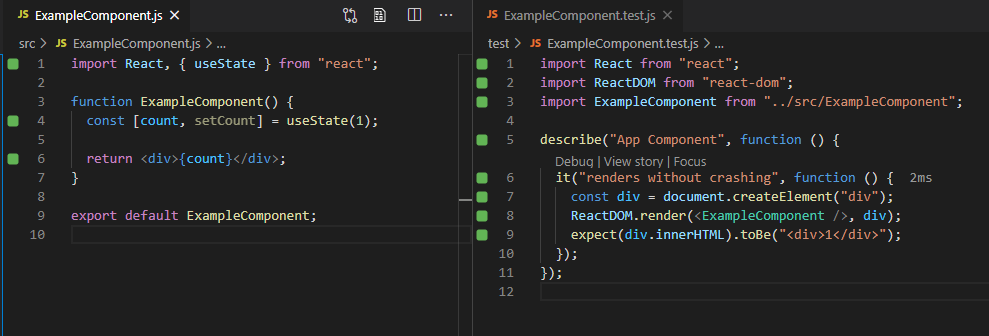
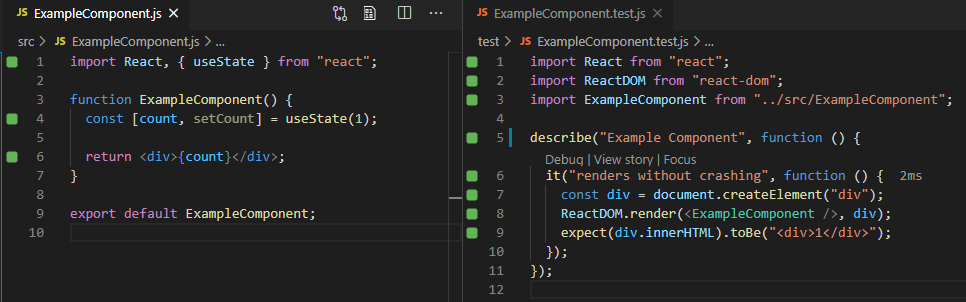
update

diff --git a/test/ExampleComponent.test.js b/test/ExampleComponent.test.js
@@ -2,7 +2,7 @@ import React from "react";
 import ReactDOM from "react-dom";
 import ExampleComponent from "../src/ExampleComponent";
 
-describe("App Component", function () {
+describe("Example Component", function () {
   it("renders without crashing", function () {
     const div = document.createElement("div");
     ReactDOM.render(<ExampleComponent />, div);
